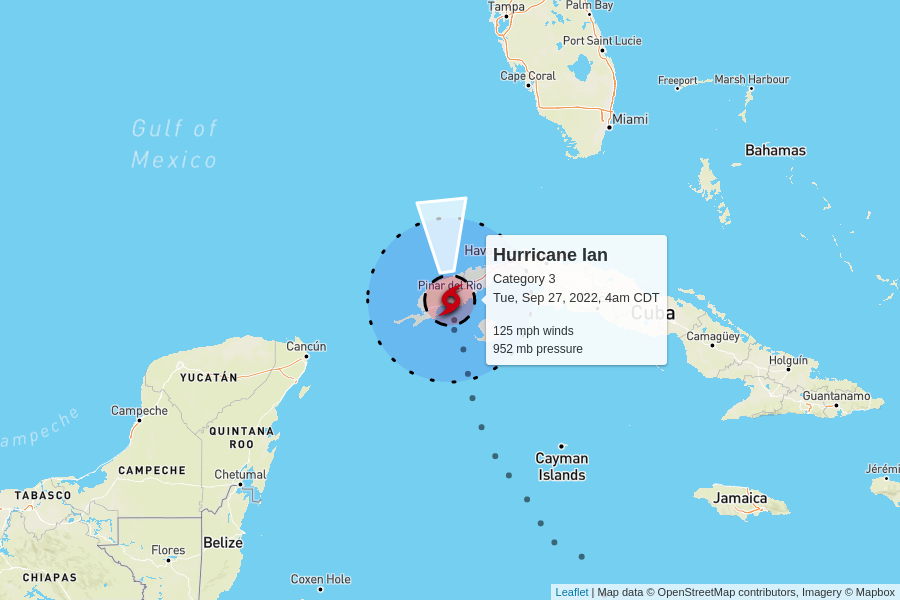
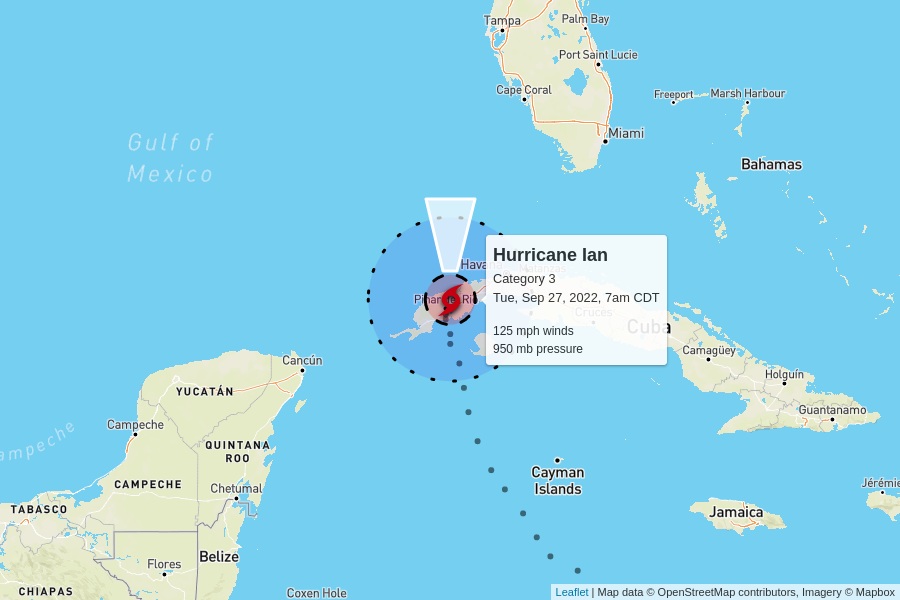
automatic update

diff --git a/docs/index.html b/docs/index.html
@@ -100,7 +100,7 @@
         <td colspan="6" class="storm category-3" >
           <h2>
             Hurricane Ian - Category 3
-            <p class="updated">last updated <span data-time>2022-09-27T09:00:00.000Z</span></p>
+            <p class="updated">last updated <span data-time>2022-09-27T12:00:00.000Z</span></p>
           </h2>
         </td>
       </tr>
@@ -116,11 +116,11 @@
       <tr>
         <td class="spacer"></td>
         <td>125 mph</td>
-        <td>952 mb</td>
+        <td>950 mb</td>
         <td>
           12 mph to the north
           <br/>
-          <span style="display: inline-block; font-size: 1.5em; transform: rotate(355deg);">↑</span>
+          <span style="display: inline-block; font-size: 1.5em; transform: rotate(360deg);">↑</span>
         </td>
         <td><a href="https://raw.githubusercontent.com/mgwalker/atlantic-hurricanes/main/data/csv/AL092022.csv">AL092022.csv</a></td>
         <td><a href="https://www.nhc.noaa.gov/archive/2022/IAN.shtml?">NHC advisories</a></td>
